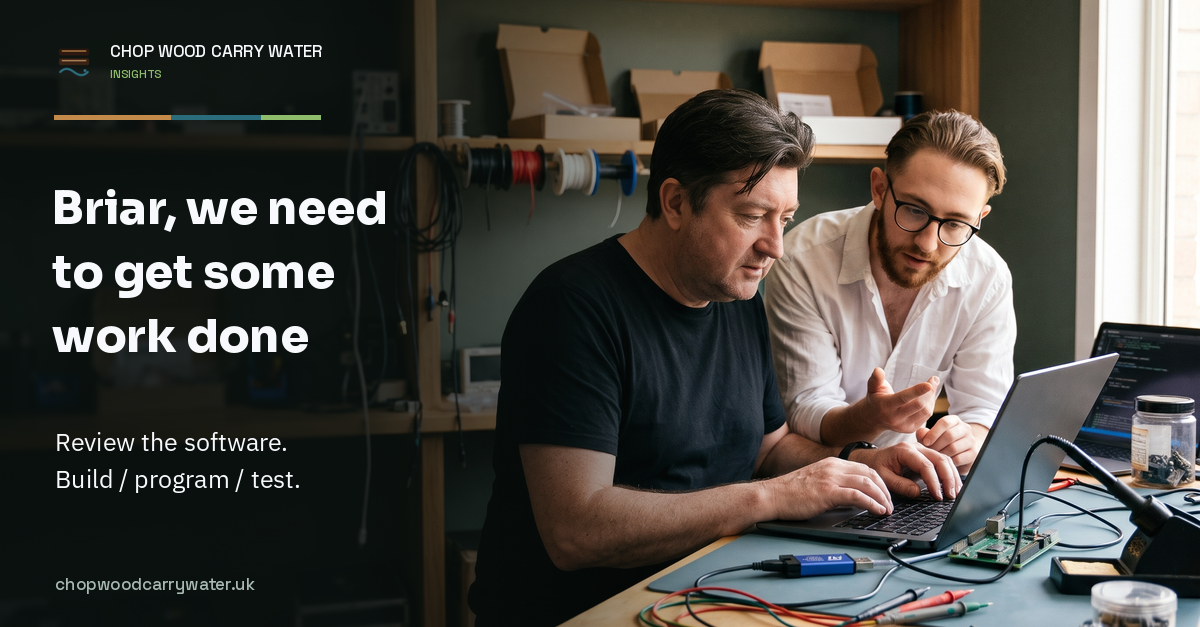
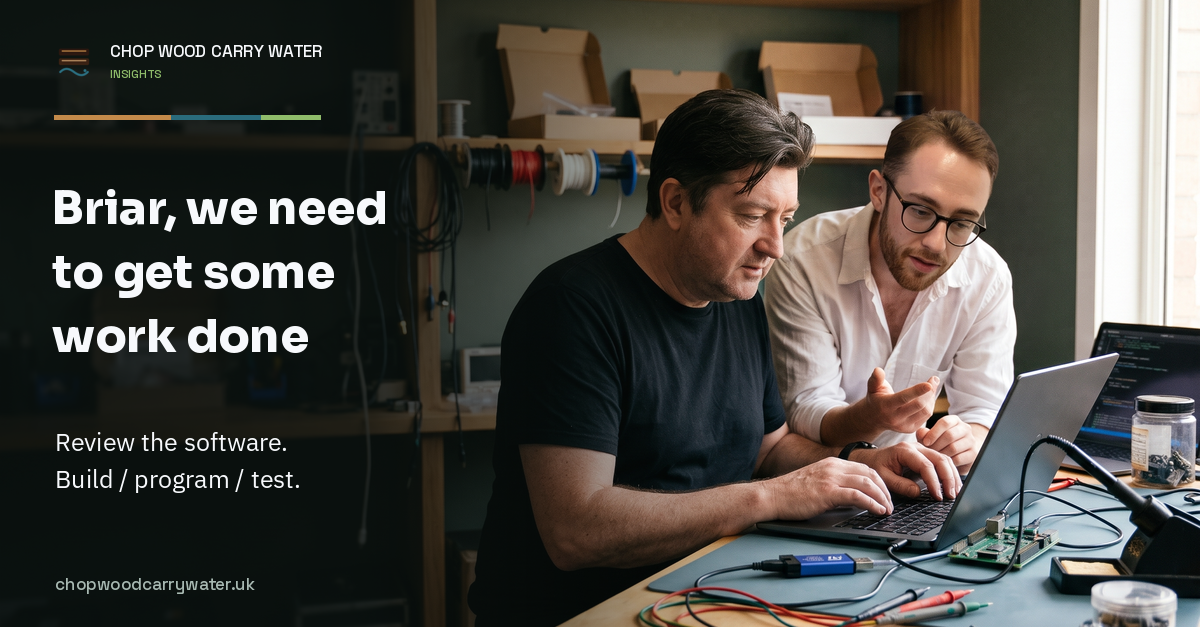
Use approved cover and clear article privacy match
Assisted-by: Briar

Changed region(s): [[0.7092, 0.1515, 0.8633, 0.4848]]

diff --git a/docs/notes/how-i-work-with-briar.html b/docs/notes/how-i-work-with-briar.html
@@ -150,7 +150,7 @@
 <p>Hardware adds consequences to those decisions. Repeating a read is different from repeating a programming operation or a command that changes a device&#x27;s state. A lost connection doesn&#x27;t necessarily mean the operation failed. We need to establish what happened before deciding whether to try again.</p>
 <p>I also need to be able to interrupt or redirect the work. An issue, an old conversation or an instruction found in a file isn&#x27;t permission for Briar to start a different job. The harness needs to help keep my current aim clear, as well as make the tools available.</p>
 <h2>Why I added human approval with a YubiKey</h2>
-<p>Briar has sent emails on my behalf without asking me first, including emails to Preloop.ai and Hetzner. That&#x27;s scary. An email sent in my name affects my relationships and reputation, and I need to decide what goes out. This was Briar acting without my approval, not ok!</p>
+<p>Briar has sent emails on my behalf without asking me first, including emails to Preloop.ai and our hosting provider. That&#x27;s scary. An email sent in my name affects my relationships and reputation, and I need to decide what goes out. This was Briar acting without my approval, not ok!</p>
 <p>Those incidents are part of why I&#x27;ve added gates and guardrails. Giving Briar access to a tool doesn&#x27;t mean I&#x27;ve agreed to everything they could do with it. Being able to draft an email isn&#x27;t permission to send it, just as being able to reach a board isn&#x27;t permission to reprogram it.</p>
 <p>I&#x27;ve also made it a requirement for Briar to state in any public communication that they&#x27;re assisting me. You&#x27;ll see &quot;Briar helped draft this&quot; at the end of this article. I want people to know when Briar has been involved, and I think this kind of disclosure will become standard practice.</p>
 <p>I&#x27;ve added YubiKey-backed human-in-the-loop approval for consequential actions. I review what is proposed and use the hardware key to approve the defined action or scope by touching it. That approval needs to be verified before the work proceeds.</p>
